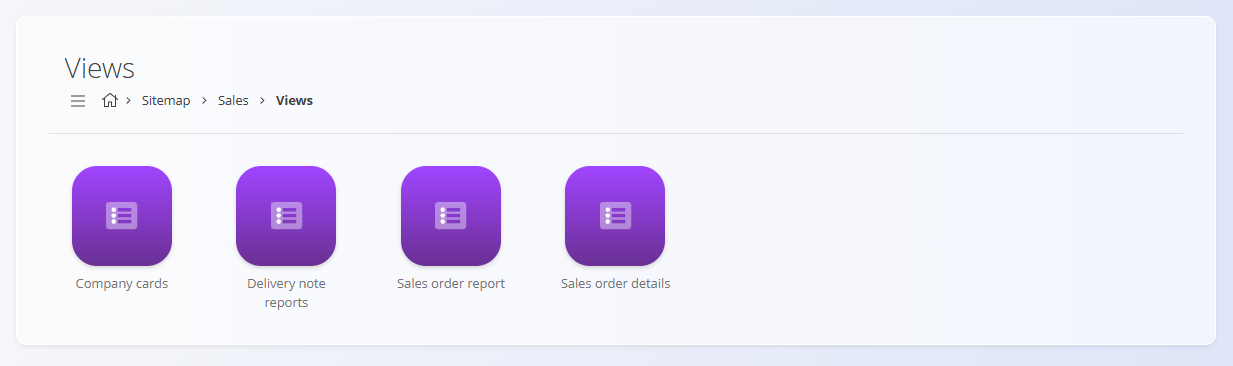
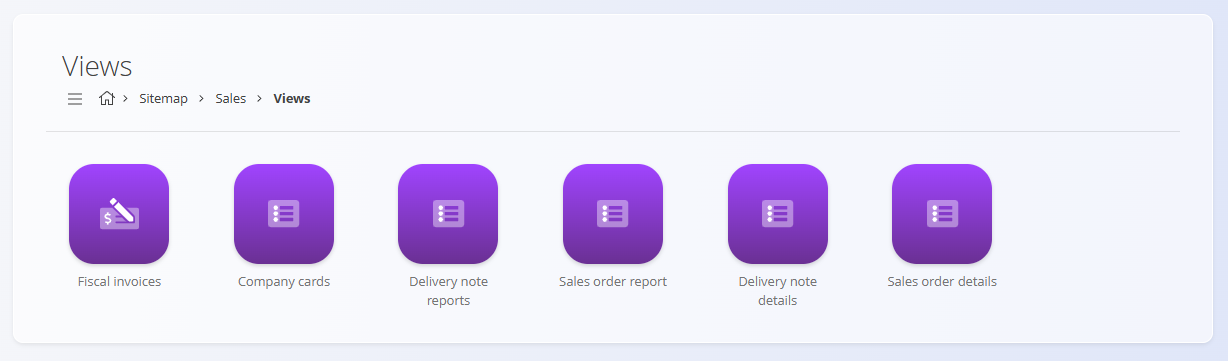
docs(en,sl,hr): add Delivery note details view
Add the Delivery note details view to the Sales views in all three
languages, with its list and filter screenshots, and update the Sales
README views list and image to show all six views.

diff --git a/en/Domains/Sales/Views/DeliveryNoteDetails.md b/en/Domains/Sales/Views/DeliveryNoteDetails.md
@@ -1,0 +1,66 @@
+<!-- app_route: /sales/views/delivery-note-details -->
+<!-- app_label: Delivery note details -->
+<!-- canonical_source_url: https://tom-pit.github.io/Connected.Docs/en/Domains/Sales/Views/DeliveryNoteDetails/ -->
+<!-- canonical_source_title: Delivery note details -->
+
+# Delivery note details
+
+Use the **Delivery note details** view to quickly review the state of your deliveries. It lists the items from [**delivery notes**](../Documents/DeliveryNotes.md) one line at a time, so you can see how much has been issued, and which items have been invoiced and at what price.
+
+This view is analytical only. It does **not** create or change delivery notes.
+
+To access this view, go to **Sales / Views / Delivery note details** in the [navigation](../../../Common/UI/Navigation.md).
+
+![Delivery note details](../Images/DeliveryNoteDetailsView.png "Delivery note details")
+
+### Purpose
+
+This view is useful for:
+
+- Checking which delivered items have been invoiced, and at what price
+- Following up on the invoice reference for each delivered item
+- Reviewing the delivery history for a customer, line by line
+
+It complements the [**Delivery note reports**](DeliveryNoteReports.md) view by focusing on **individual lines** rather than totals per customer.
+
+## Delivery note details list
+
+Each line represents a **single item** on a delivery note, including:
+
+- **Item** – The asset being delivered, with its code and name. The delivery note code is shown with a link to the [**delivery note**](../Documents/DeliveryNotes.md).
+- **Delivery details** – Customer and delivery date.
+- **Issued quantity** – The number of items already issued, followed by the total quantity on the delivery note, for example **0 pc / 3 pc**.
+- **Price** – The price taken from the invoice. The invoice code is shown with a link to the invoice. The price is blank for delivery notes that have not been invoiced.
+
+### Filters
+
+The left sidebar includes the following filters:
+
+- **Delivery date** – Select a delivery time window.
+- **Detail status** – Filters the items by sending progress.
+  - *All*
+  - *Available* – No items have been sent.
+  - *In completion* – Some items have been sent, but not all. For example, 1 of 4 items.
+  - *Completed* – All items have been sent.
+- **Document status** – Shows the completion state of the delivery note.
+  - *All*
+  - *Available* – The delivery note is not completed.
+  - *Completed* – The delivery note has been completed and saved.
+- **Company** – Filter by customer.
+
+### Overdue delivery notes
+
+Under the delivery date, a red badge shows how many days the delivery is overdue, for example **15 days overdue**. The badge appears when the delivery date written in the delivery note has passed, and it counts the days since that date. Completed delivery notes do not show the badge.
+
+## Menu
+
+The menu provides additional actions available on this page.
+
+The **Exporting** action opens a dialog with these options:
+
+- **Report** – Select **Details**.
+- **File format** – Select **CSV**.
+
+Then select **EXPORT**.
+
+For details about menu actions, see [**Menu actions**](../../../Common/Concepts/MenuActions.md).

diff --git a/sl/Domene/Prodaja/Pregledi/PostavkeDobavnic.md b/sl/Domene/Prodaja/Pregledi/PostavkeDobavnic.md
@@ -1,0 +1,66 @@
+<!-- app_route: /sales/views/delivery-note-details -->
+<!-- app_label: Postavke dobavnic -->
+<!-- canonical_source_url: https://tom-pit.github.io/Connected.Docs/sl/Domene/Prodaja/Pregledi/PostavkeDobavnic/ -->
+<!-- canonical_source_title: Postavke dobavnic -->
+
+# Postavke dobavnic
+
+Pogled **Postavke dobavnic** omogoča hiter pregled stanja dobav. Prikazuje postavke iz [**dobavnic**](../Dokumenti/Dobavnice.md) po vrsticah, tako da vidite, koliko je že izdanega, ter katere postavke so bile zaračunane in po kateri ceni.
+
+Ta pogled je izključno analitičen — **ne omogoča** ustvarjanja ali spreminjanja dobavnic.
+
+Za dostop do tega pregleda pojdite na **Prodaja / Pregledi / Postavke dobavnic** v [navigaciji](../../../Skupno/UI/Navigacija.md).
+
+![Postavke dobavnic](../Images/DeliveryNoteDetailsViewSL.png "Postavke dobavnic")
+
+## Seznam postavk dobavnic
+
+Vsaka vrstica v seznamu predstavlja **eno posamezno postavko dobavnice**, vključno z naslednjimi podatki:
+
+- **Vrsta blaga oz. storitev** – Sredstvo, ki je dobavljeno, z njegovo šifro in nazivom. Šifra dobavnice je prikazana s povezavo do [**dobavnice**](../Dokumenti/Dobavnice.md).  
+- **Podrobnosti o dobavi** – Stranka in datum dobave.  
+- **Izdana količina** – Število že izdanih enot, ki mu sledi skupna količina na dobavnici, npr. **0 pc / 3 pc**.  
+- **Cena** – Cena iz računa. Številka računa je prikazana s povezavo do računa. Cena je prazna za dobavnice, ki še niso zaračunane.
+
+## Filtri
+
+Leva stranska vrstica vsebuje naslednje filtre:
+
+- **Rok dobave** – Izbira časovnega obdobja dobave.  
+- **Stanje postavke** – Filtrira postavke glede na napredek pošiljanja.  
+  - *Vsi*  
+  - *Na voljo* – Nobena postavka ni bila poslana.  
+  - *V zaključevanju* – Nekatere postavke so bile poslane, ne vse. Npr. 1 od 4 postavk.  
+  - *Zaključen* – Vse postavke so bile poslane.  
+- **Stanje dokumenta** – Prikazuje stanje zaključenosti dobavnice.  
+  - *Vsi*  
+  - *Na voljo* – Dobavnica ni zaključena.  
+  - *Zaključen* – Dobavnica je zaključena in shranjena.  
+- **Stranka** – Filtriranje po stranki.
+
+## Zamudne dobavnice
+
+Pod datumom dobave se prikaže rdeča oznaka, ki kaže, koliko dni je dobava zamujena, npr. **15 dni zamude**. Oznaka se prikaže, ko je datum dobave, zapisan na dobavnici, že minil, in šteje dni od tega datuma. Zaključene dobavnice oznake ne prikazujejo.
+
+## Namen
+
+Pogled **Postavke dobavnic** je uporaben za:
+
+- Pregled, katere dobavljene postavke so bile zaračunane in po kateri ceni  
+- Sledenje številki računa za vsako dobavljeno postavko  
+- Pregled zgodovine dobav za stranko, postavko za postavko  
+
+Ta pregled dopolnjuje pregled **[Poročila dobavnic](PorocilaDobavnic.md)**, saj se osredotoča na **posamezne postavke**, ne na skupne vrednosti po stranki.
+
+## Meni
+
+Meni omogoča dodatna dejanja, ki so na voljo na tej strani.
+
+Na voljo je dejanje **Izvoz**. V oknu za izvoz:
+
+- **Poročilo** – izberite **Postavke**.  
+- **Format datoteke** – izberite **CSV**.
+
+Nato izberite **IZVOZ**.
+
+Za podrobnosti o dejanjih menija glejte [**Dejanja menija**](../../../Skupno/Koncepti/MeniDejanja.md).

diff --git a/hr/Domene/Prodaja/Pogledi/StavkeOtpremnica.md b/hr/Domene/Prodaja/Pogledi/StavkeOtpremnica.md
@@ -1,0 +1,66 @@
+<!-- app_route: /sales/views/delivery-note-details -->
+<!-- app_label: Stavke otpremnica -->
+<!-- canonical_source_url: https://github.com/Tom-PIT/Connected.Docs/blob/main/hr/Domene/Prodaja/Pogledi/StavkeOtpremnica.md -->
+<!-- canonical_source_title: Stavke otpremnica -->
+
+# Stavke otpremnica
+
+Pogled **Stavke otpremnica** omogućuje brz pregled stanja isporuka. Prikazuje stavke iz dokumenata [**Otpremnice**](../Dokumenti/Otpremnice.md) redak po redak, pa vidite koliko je već izdano te koje su stavke fakturirane i po kojoj cijeni.
+
+Ovaj pogled služi isključivo za analizu i **ne omogućuje** izradu niti uređivanje otpremnica.
+
+Za pristup ovom pogledu otvorite **Prodaja / Pogledi / Stavke otpremnica** u [navigaciji](../../../Zajednicko/UI/Navigacija.md).
+
+![Stavke otpremnica](../Images/DeliveryNoteDetailsViewHR.png "Stavke otpremnica")
+
+## Popis stavki otpremnica
+
+Svaki redak predstavlja **jednu stavku otpremnice** i prikazuje:
+
+- **Vrstu robe, odnosno usluge** – Artikl koji je isporučen, s njegovom šifrom i nazivom. Šifra otpremnice prikazana je s poveznicom na [**otpremnicu**](../Dokumenti/Otpremnice.md).
+- **Pojedinosti o dostavi** – Kupca i datum isporuke.
+- **Izdanu količinu** – Broj već izdanih jedinica, a zatim ukupnu količinu na otpremnici, npr. **0 pc / 3 pc**.
+- **Cijenu** – Cijenu iz računa. Broj računa prikazan je s poveznicom na račun. Cijena je prazna za otpremnice koje još nisu fakturirane.
+
+## Filtri
+
+Lijeva bočna traka sadrži sljedeće filtre:
+
+- **Datum isporuke** – Odaberite vremensko razdoblje isporuke.
+- **Status stavke** – Filtrira stavke prema napretku slanja.
+    - *Svi*
+    - *Dostupno* – Nijedna stavka nije poslana.
+    - *U tijeku je dovršavanje* – Neke stavke su poslane, ali ne sve. Npr. 1 od 4 stavke.
+    - *Dovršen* – Sve stavke su poslane.
+- **Status dokumenta** – Prikazuje stanje dovršenosti otpremnice.
+    - *Svi*
+    - *Dostupno* – Otpremnica nije dovršena.
+    - *Dovršen* – Otpremnica je dovršena i spremljena.
+- **Tvrtka** – Prikazuje stavke za odabranu tvrtku.
+
+## Zakašnjele otpremnice
+
+Ispod datuma isporuke prikazuje se crvena oznaka koja pokazuje koliko je dana isporuka zakašnjela, npr. **15 dana zakašnjeli**. Oznaka se prikazuje kada je datum isporuke, upisan na otpremnici, prošao, i broji dane od tog datuma. Dovršene otpremnice oznaku ne prikazuju.
+
+## Svrha
+
+Ovaj pogled je koristan za:
+
+- pregled koje su isporučene stavke fakturirane i po kojoj cijeni,
+- praćenje broja računa za svaku isporučenu stavku,
+- pregled povijesti isporuka za kupca, stavku po stavku.
+
+Pogled nadopunjuje [**Izvješća o otpremnicama**](IzvjescaOOtpremnicama.md) jer je usmjeren na **pojedinačne stavke**, a ne na zbirne vrijednosti po kupcu.
+
+## Izbornik
+
+Izbornik pruža dodatne radnje dostupne na ovom zaslonu.
+
+Dostupna je radnja **Izvoz**. U dijaloškom okviru:
+
+- **Izvještaj** – odaberite **Stavke**.
+- **Format datoteke** – odaberite **CSV**.
+
+Zatim odaberite **IZVOZ**.
+
+Više informacija o radnjama izbornika potražite u dokumentu [**Radnje izbornika**](../../../Zajednicko/Koncepti/RadnjeIzbornika.md).

diff --git a/sl/Domene/Prodaja/README.md b/sl/Domene/Prodaja/README.md
@@ -61,9 +61,11 @@ Razdelek **Pregledi** vsebuje analitična orodja za razumevanje uspešnosti in o
 
 Razpoložljivi pregledi vključujejo:
 
+- **[Davčno potrjeni računi](Pregledi/DavcnoPotrjeniRacuni.md)** – Fiskalizirani maloprodajni računi, izdani strankam (B2C), prijavljeni davčnemu organu.  
 - **[Poslovne kartice](Pregledi/PoslovneKartice.md)** – Finančni pregledi bremenitev in dobroimetij po strankah.  
 - **[Poročila dobavnic](Pregledi/PorocilaDobavnic.md)** – Konsolidirana analiza dobavljenih sredstev po strankah; samo za branje; temelji na potrjenih [dobavnicah](Dokumenti/Dobavnice.md).  
 - **[Poročila naročil strank](Pregledi/PorocilaNarocilStrank.md)** – Konsolidirana analiza naročenih sredstev po strankah; samo za branje; temelji na potrjenih [naročilih strank](Dokumenti/NarocilaStrank.md).  
+- **[Postavke dobavnic](Pregledi/PostavkeDobavnic.md)** – Podroben pregled postavk dobavnic, s količinami in cenami iz računov.  
 - **[Postavke naročil strank](Pregledi/PostavkeNarocilStrank.md)** – Podroben pregled posameznih postavk naročil strank.
 
 Ti pregledi **ne ustvarjajo** transakcij – namenjeni so analizi in podpori odločanju.

diff --git a/en/Domains/Sales/README.md b/en/Domains/Sales/README.md
@@ -61,9 +61,11 @@ The **Views** section provides analytical tools used to understand the performan
 
 Available views include:
 
+- **[Fiscal invoices](Views/FiscalInvoices.md)** – Fiscalized retail invoices issued to customers (B2C), reported to the tax authority.  
 - **[Company cards](Views/CompanyCards.md)** – High-level customer profiles summarizing commercial activity.  
 - **[Delivery note reports](Views/DeliveryNoteReports.md)** – Consolidated analysis of delivered assets grouped by customer; read-only; based on committed [delivery notes](Documents/DeliveryNotes.md).  
 - **[Sales order reports](Views/SalesOrderReport.md)** – Consolidated analysis of ordered assets grouped by customer; read-only; based on committed [sales orders](Documents/SalesOrders.md).  
+- **[Delivery note details](Views/DeliveryNoteDetails.md)** – Line-level view of delivery notes, with quantities and prices taken from invoices.  
 - **[Sales order details](Views/SalesOrderDetails.md)** – Detailed breakdown of individual sales orders.
 
 These screens do **not** create transactions—they support analysis and decision-making.

diff --git a/hr/Domene/Prodaja/README.md b/hr/Domene/Prodaja/README.md
@@ -65,6 +65,7 @@ Dostupni pogledi:
 - **[Kartice tvrtke](Pogledi/KarticeTvrtke.md)** – Pregled poslovnih partnera i njihove komercijalne aktivnosti.
 - **[Izvješća o otpremnicama](Pogledi/IzvjescaOOtpremnicama.md)** – Analiza isporučene robe prema kupcima.
 - **[Izvješće o narudžbama kupcu](Pogledi/IzvjesceONarudzbamaKupcu.md)** – Analiza potvrđenih narudžbi prema kupcima.
+- **[Stavke otpremnica](Pogledi/StavkeOtpremnica.md)** – Detaljan pregled pojedinačnih stavki otpremnica, s količinama i cijenama iz računa.
 - **[Stavke narudžbi](Pogledi/StavkeNarudzbi.md)** – Detaljan pregled pojedinačnih stavki narudžbi.
 
 Ovi zasloni služe isključivo za analizu podataka i ne stvaraju nove poslovne dokumente.
